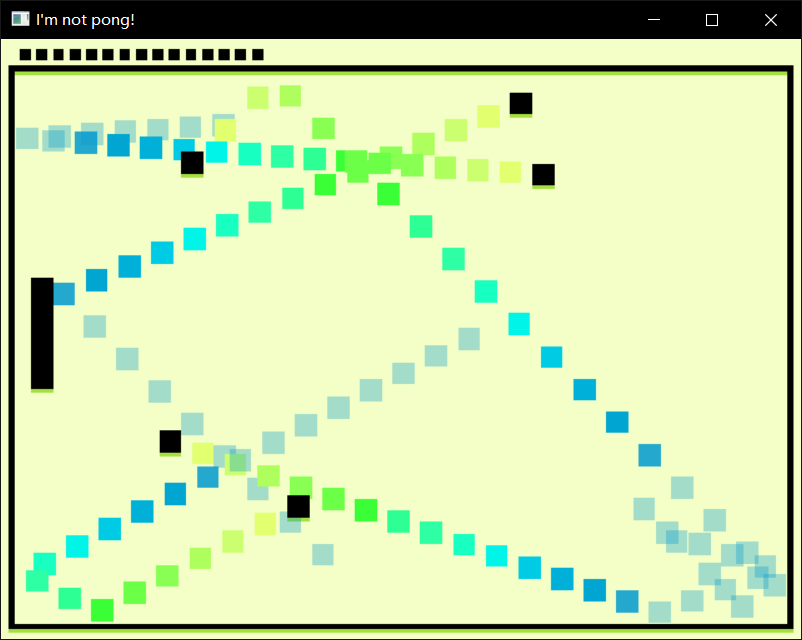
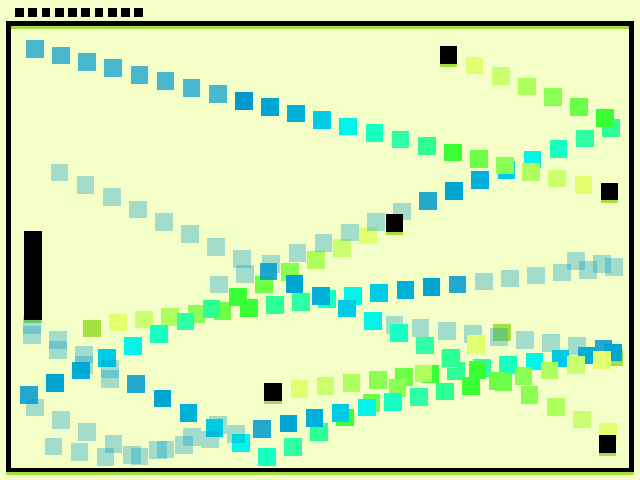
gain points

diff --git a/PongMode.cpp b/PongMode.cpp
@@ -206,7 +206,7 @@ void PongMode::update(float elapsed)
 	//----- ball update -----
 
 	//speed of ball doubles every four points:
-	float speed_multiplier = 2.0f * std::pow(2.0f, (40 - left_score) / 4.0f);
+	float speed_multiplier = 2.0f * std::pow(2.0f, (20 - left_score) / 4.0f);
 
 	//velocity cap, though (otherwise ball can pass through paddles):
 	speed_multiplier = std::min(speed_multiplier, 10.0f);
@@ -223,7 +223,7 @@ void PongMode::update(float elapsed)
 	//---- collision handling ----
 
 	//paddles:
-	auto paddle_vs_ball = [this](glm::vec2 const &paddle, glm::vec2 &ball_in, glm::vec2 &ball_velocity_in) {
+	auto paddle_vs_ball = [this](glm::vec2 const &paddle, glm::vec2 &ball_in, glm::vec2 &ball_velocity_in, int flag) {
 		//compute area of overlap:
 		glm::vec2 min = glm::max(paddle - paddle_radius, ball_in - ball_radius);
 		glm::vec2 max = glm::min(paddle + paddle_radius, ball_in + ball_radius);
@@ -233,8 +233,13 @@ void PongMode::update(float elapsed)
 			return;
 
 		if (left_score > 0){
-			left_score -= 1;
-			std::cout<<"left\n";
+			if(flag == 0) {
+				left_score -= 1;
+				std::cout<<"left-\n";
+			} else {
+				left_score += 1;
+				std::cout<<"left+\n";
+			}
 		}
 
 		if (max.x - min.x > max.y - min.y)
@@ -271,7 +276,7 @@ void PongMode::update(float elapsed)
 	};
 
 	for (int i = 0; i < ball_num; i++) {
-		paddle_vs_ball(left_paddle, balls[i], ball_velocities[i]);
+		paddle_vs_ball(left_paddle, balls[i], ball_velocities[i], i % 2);
 	}
 
 	// paddle_vs_ball(left_paddle, balls[0], ball_velocity);
@@ -355,6 +360,7 @@ void PongMode::draw(glm::uvec2 const &drawable_size)
 	const glm::u8vec4 bg_color = HEX_TO_U8VEC4(0xf3ffc6ff);
 	const glm::u8vec4 fg_color = HEX_TO_U8VEC4(0x000000ff);
 	const glm::u8vec4 shadow_color = HEX_TO_U8VEC4(0xa5df40ff);
+	const glm::u8vec4 light_color = HEX_TO_U8VEC4(0xabff0000);
 	const std::vector<glm::u8vec4> rainbow_colors = {
 		HEX_TO_U8VEC4(0xe2ff70ff), HEX_TO_U8VEC4(0xcbff70ff), HEX_TO_U8VEC4(0xaeff5dff),
 		HEX_TO_U8VEC4(0x88ff52ff), HEX_TO_U8VEC4(0x6cff47ff), HEX_TO_U8VEC4(0x3aff37ff),
@@ -433,54 +439,6 @@ void PongMode::draw(glm::uvec2 const &drawable_size)
 		}
 	}
 
-	// if (ball_trail.size() >= 2)
-	// {
-	// 	//start ti at second element so there is always something before it to interpolate from:
-	// 	std::deque<glm::vec3>::iterator ti = ball_trail.begin() + 1;
-	// 	//draw trail from oldest-to-newest:
-	// 	for (uint32_t i = uint32_t(rainbow_colors.size()) - 1; i < rainbow_colors.size(); --i)
-	// 	{
-	// 		//time at which to draw the trail element:
-	// 		float t = (i + 1) / float(rainbow_colors.size()) * trail_length;
-	// 		//advance ti until 'just before' t:
-	// 		while (ti != ball_trail.end() && ti->z > t)
-	// 			++ti;
-	// 		//if we ran out of tail, stop drawing:
-	// 		if (ti == ball_trail.end())
-	// 			break;
-	// 		//interpolate between previous and current trail point to the correct time:
-	// 		glm::vec3 a = *(ti - 1);
-	// 		glm::vec3 b = *(ti);
-	// 		glm::vec2 at = (t - a.z) / (b.z - a.z) * (glm::vec2(b) - glm::vec2(a)) + glm::vec2(a);
-	// 		//draw:
-	// 		draw_rectangle(at, ball_radius, rainbow_colors[i]);
-	// 	}
-	// }
-
-	// if (ball_2_trail.size() >= 2)
-	// {
-	// 	//start ti at second element so there is always something before it to interpolate from:
-	// 	std::deque<glm::vec3>::iterator ti = ball_2_trail.begin() + 1;
-	// 	//draw trail from oldest-to-newest:
-	// 	for (uint32_t i = uint32_t(rainbow_colors.size()) - 1; i < rainbow_colors.size(); --i)
-	// 	{
-	// 		//time at which to draw the trail element:
-	// 		float t = (i + 1) / float(rainbow_colors.size()) * trail_length;
-	// 		//advance ti until 'just before' t:
-	// 		while (ti != ball_2_trail.end() && ti->z > t)
-	// 			++ti;
-	// 		//if we ran out of tail, stop drawing:
-	// 		if (ti == ball_2_trail.end())
-	// 			break;
-	// 		//interpolate between previous and current trail point to the correct time:
-	// 		glm::vec3 a = *(ti - 1);
-	// 		glm::vec3 b = *(ti);
-	// 		glm::vec2 at = (t - a.z) / (b.z - a.z) * (glm::vec2(b) - glm::vec2(a)) + glm::vec2(a);
-	// 		//draw:
-	// 		draw_rectangle(at, ball_radius, rainbow_colors[i]);
-	// 	}
-	// }
-
 	//solid objects:
 
 	//walls:
@@ -495,7 +453,11 @@ void PongMode::draw(glm::uvec2 const &drawable_size)
 
 	//ball:
 	for (int i = 0; i < ball_num; i++) {
-		draw_rectangle(balls[i], ball_radius, fg_color);
+		if(i % 2 == 0) {
+			draw_rectangle(balls[i], ball_radius, fg_color);
+		} else {
+			draw_rectangle(balls[i], ball_radius, light_color);
+		}
 	}
 	// draw_rectangle(balls[0], ball_radius, fg_color);
 	// draw_rectangle(ball_2, ball_radius, fg_color);

diff --git a/PongMode.hpp b/PongMode.hpp
@@ -37,7 +37,7 @@ struct PongMode : Mode {
 	std::vector<glm::vec2> balls;
 	std::vector<glm::vec2> ball_velocities;
 
-	uint32_t left_score = 20;
+	uint32_t left_score = 10;
 	uint32_t right_score = 0;
 	int ball_num = 10;
 

diff --git a/README.md b/README.md
@@ -4,7 +4,7 @@ Author: Jiechen Li, jiechenl
 
 Design: 
 
-Compared with the prototype, this game remove the right paddle and add more balls. The target is to avoid balls, rather than hitting the balls.
+Compared with the prototype, this game remove the right paddle and add more balls. The target is to avoid black balls and to hit green balls.
 
 Screen Shot:
 
@@ -12,9 +12,11 @@ Screen Shot:
 
 How To Play:
 
-Control the left paddle to avoid balls with your mouse.
-When the left paddle hit balls, you will lose one point.
-The less points you have, the faster balls' velocity is. The minimal of the points is zero, the maximal of the points is twenty.
-You can use number "1 - 9" to control the number of balls.
+Control the left paddle to avoid black balls and to hit green balls with your mouse.
+When the left paddle hit black balls, you will lose one point.
+When the left paddle hit green balls, you will gain one point.
+It's ok to touch the trails.
+The less points you have, the faster balls' velocity is. The minimal of the points is zero, the default points is ten.
+You can use number "1 - 9" to control the number of balls. If you think the game is too hard (default number is 10), you can press "1" to set the number of balls to 1.
 
 This game was built with [NEST](NEST.md).
